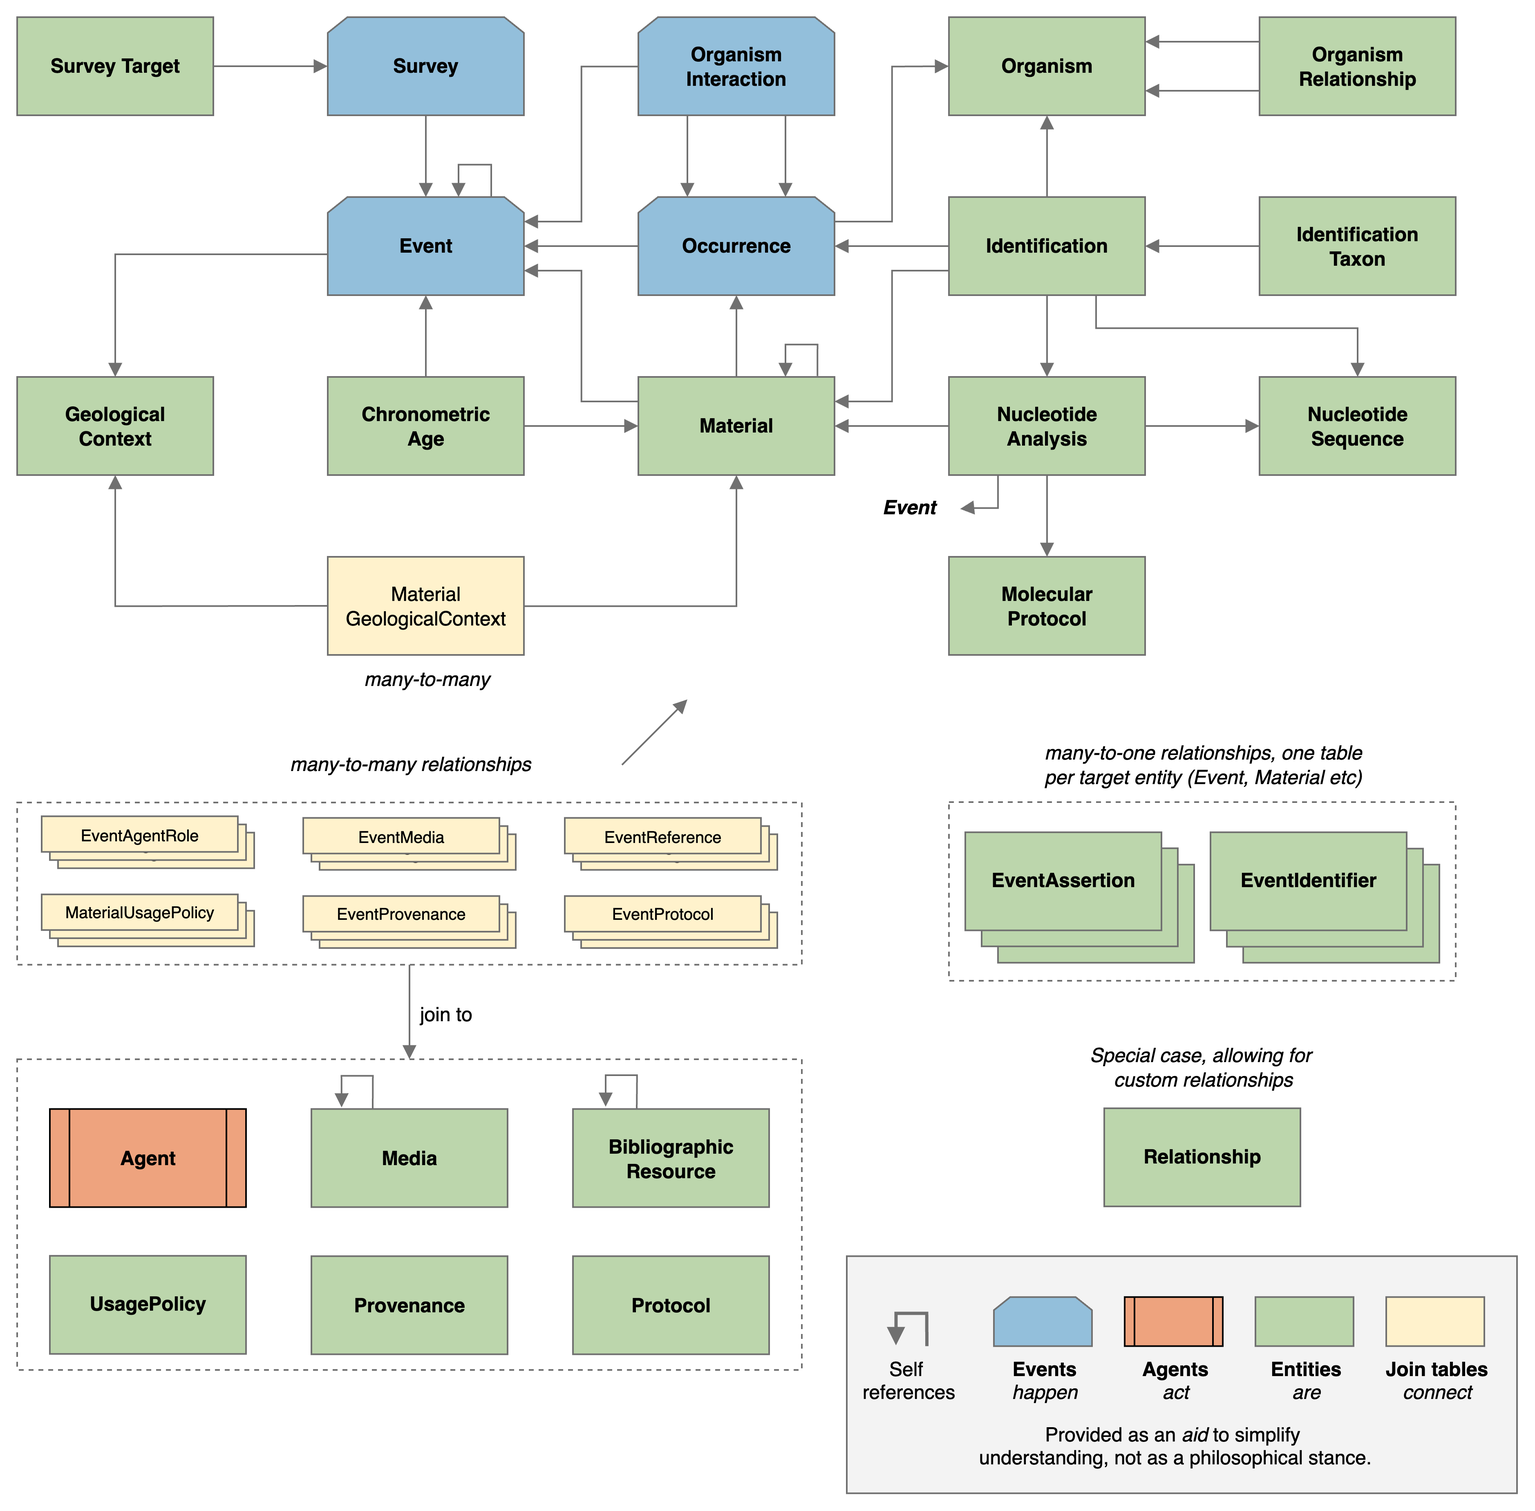
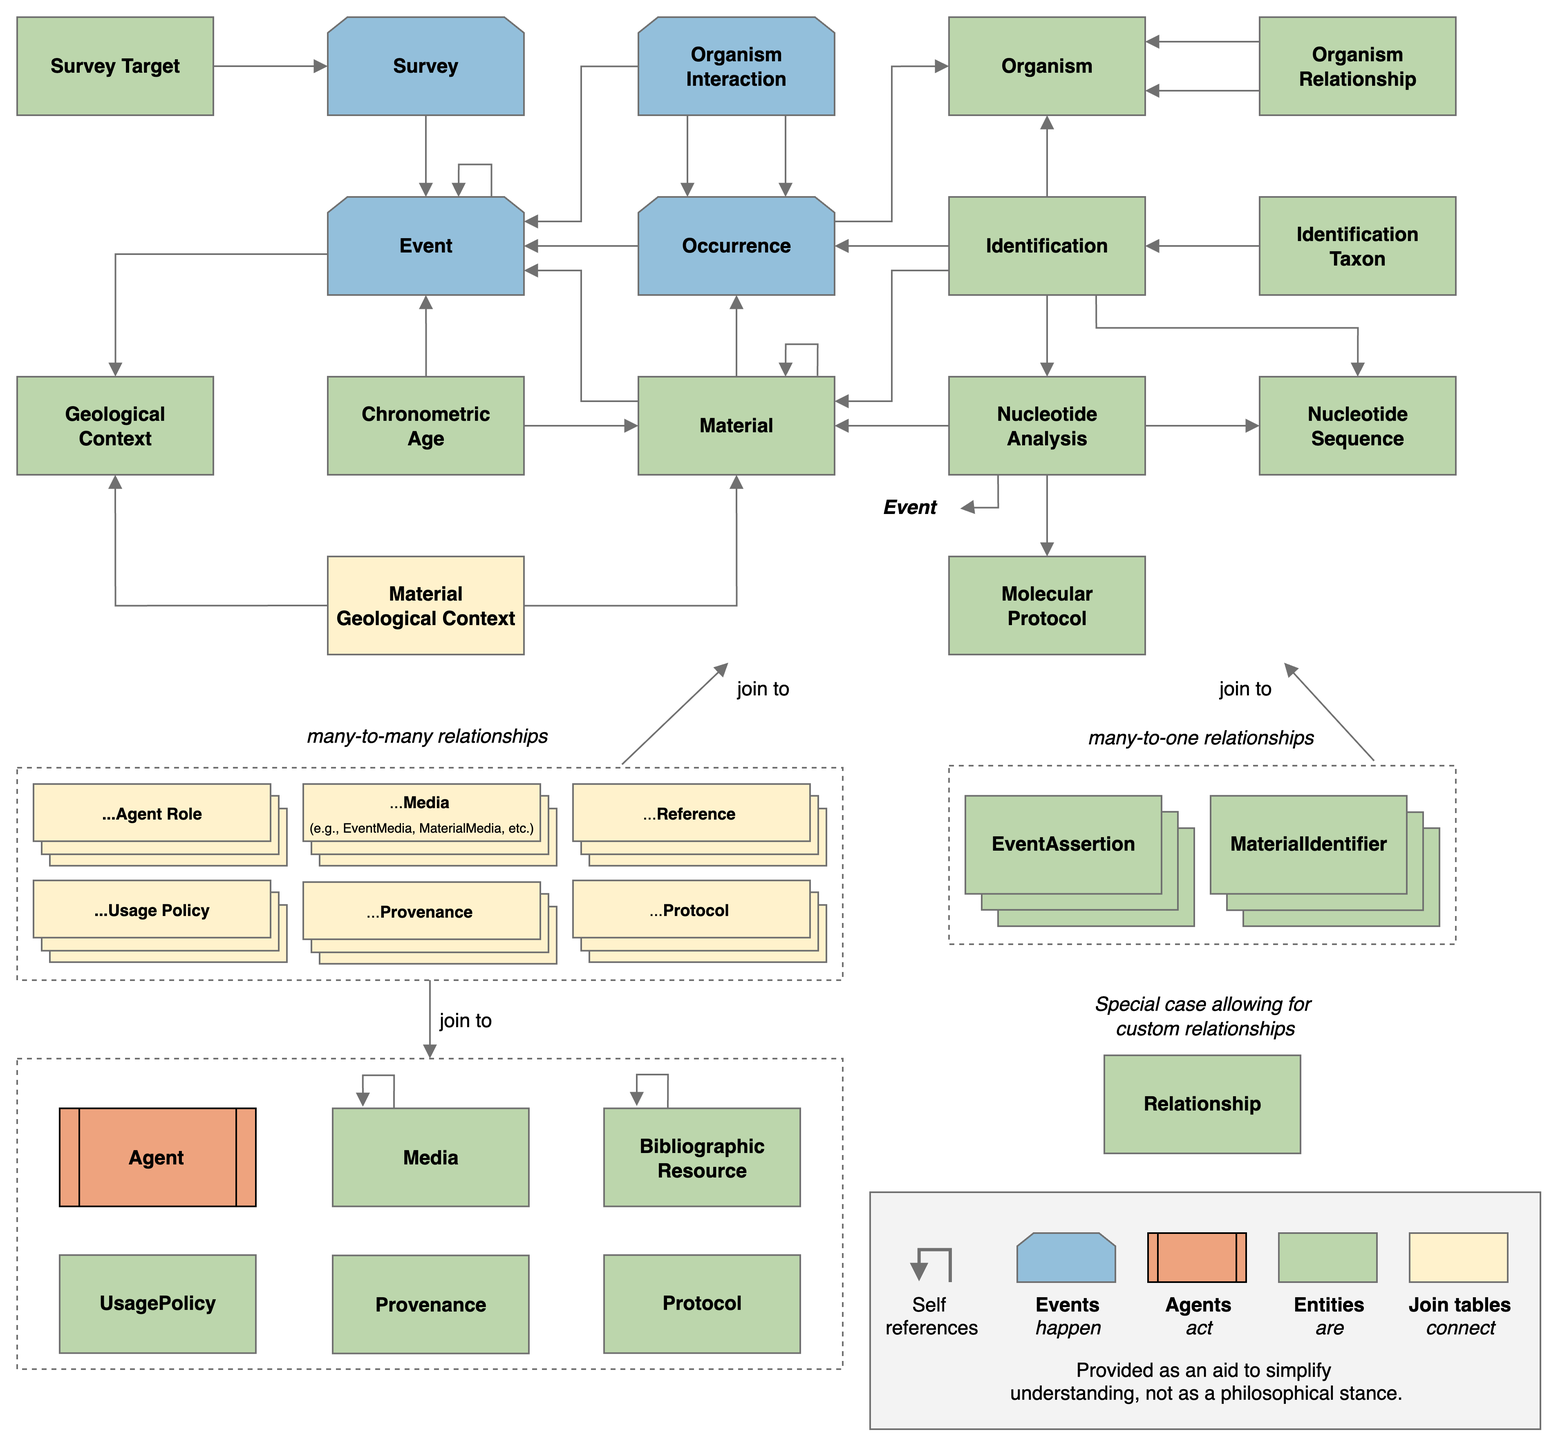
Further amendments to the QRG, especially images. Update to the review document, still a work in progress.

diff --git a/qrg/index.html b/qrg/index.html
@@ -23,7 +23,7 @@
         h2 { padding-bottom: 4px; margin: 12px 0 8px; }
         .intro { margin: 12px 0; font-size: 1.02em; color: #333; }
         .intro img { display: block; width: 100%; height: auto; border: 1px solid #ccc; box-sizing: border-box; }
-        .figure-caption { font-size: 0.88em; color: #555; text-align: center; margin-top: 4px; }
+        .figure-caption { font-size: 1.02em; color: #555; text-align: left; margin-top: 4px; }
         nav.class-index a.class-box {
             display: inline-block;
             margin: 2px;
@@ -3913,11 +3913,11 @@
 <table class="term-table"><tr><td class="label">Title (Label)</td><td>Relationship Remarks</td></tr><tr><td class="label">Namespace</td><td>dwc</td></tr><tr><td class="label">Table:</td><td><a href="#Resource Relationship">Resource Relationship</a></td></tr><tr><td class="label">IRI</td><td><a href="http://rs.tdwg.org/dwc/terms/relationshipRemarks">http://rs.tdwg.org/dwc/terms/relationshipRemarks</a></td></tr><tr><td class="label">Description</td><td>Comments or notes about a dwc:ResourceRelationship.</td></tr><tr><td class="label">Type</td><td>string</td></tr><tr><td class="label">Source</td><td><a href="http://rs.tdwg.org/dwc/terms/relationshipRemarks">http://rs.tdwg.org/dwc/terms/relationshipRemarks</a></td></tr></table>
 </section>
         <h1 id="model">Visual Summary</h1>
-        <p>The diagram below shows an overview of the DwC-DP tables (boxes) and the relationships between them (arrows). To avoid clutter, the diagram simplifies the representation of the model in a variety of ways. First, myriad join tables (e.g., EventMedia, MaterialMedia, OccurrenceMedia, etc.) are represented with stacks of boxes by category (e.g., under the box labeled EventMedia) rather than with separate boxes for each join table. The relationships to the tables on both sides of the join tables are represented by single arrows (e.g., to the Media table) rather than the myriad arrows that would otherwise be required. The directionality of the relationships are shown with arrows, but the fields that connect the tables (keys), the cardinality of those connections (uniqueness and whether they are required), and the nature of the relationships (predicates) are not shown. The keys, cardinality and predicates are all shown in the sections for each table titled "Relationships to Other Tables".</p>
+        <p>The diagram below shows an overview of the DwC-DP tables (boxes) and the relationships between them (arrows). To avoid clutter, the diagram simplifies the representation of the model in a variety of ways. First, myriad join tables (tables that connect two classes in many-to-many relationships, e.g., EventMedia, MaterialMedia, OccurrenceMedia, etc.) are represented with stacks of boxes by category (e.g., under the box labeled ...Media) rather than with separate boxes for each join table. The relationships to the tables connected through the join tables are represented by single arrows (e.g., to the Media table) and the label "join to" rather than the myriad arrows that would otherwise be required. 
+        Second, the directionality of the relationships are shown with arrows, but the fields that connect the tables (keys), the cardinality of those connections (uniqueness and whether they are required), and the nature of the relationships (predicates) are not shown. The keys, cardinality and predicates are all shown in the sections for each table titled "Relationships to Other Tables".</p>
         <div class="intro">
             <img src="../images/dwc-dp-schema-overview.png" alt="How tables relate to each other.">
-            <div class="figure-caption">Figure 1. Overview of the Darwin Core Data Package (DwC-DP), showing tables (classes) and their relationships to each other.</div>
-            <p>To further explore the relationships between tables, see the <a href="https://gbif.github.io/dwc-dp/explorer/">Darwin Core Data Package Relationship Explorer</a>.</p>
+            <div class="figure-caption">Figure 1. Overview of the Darwin Core Data Package (DwC-DP), showing tables (classes) and their relationships to each other. To further explore the relationships between tables, see the <a href="https://gbif.github.io/dwc-dp/explorer/">Darwin Core Data Package Relationship Explorer</a>.</div>
         </div>
         <footer>
             <p>This guide is provided to assist users to understand the structure and content of Darwin Core Data Packages.</p>

diff --git a/maintenance/generate_qrg.py b/maintenance/generate_qrg.py
@@ -422,7 +422,7 @@ TEMPLATE = '''<!DOCTYPE html>
         h2 {{ padding-bottom: 4px; margin: 12px 0 8px; }}
         .intro {{ margin: 12px 0; font-size: 1.02em; color: #333; }}
         .intro img {{ display: block; width: 100%; height: auto; border: 1px solid #ccc; box-sizing: border-box; }}
-        .figure-caption {{ font-size: 0.88em; color: #555; text-align: center; margin-top: 4px; }}
+        .figure-caption {{ font-size: 1.02em; color: #555; text-align: left; margin-top: 4px; }}
         nav.class-index a.class-box {{
             display: inline-block;
             margin: 2px;
@@ -501,11 +501,11 @@ TEMPLATE = '''<!DOCTYPE html>
         </div>
         {content}
         <h1 id="model">Visual Summary</h1>
-        <p>The diagram below shows an overview of the DwC-DP tables (boxes) and the relationships between them (arrows). To avoid clutter, the diagram simplifies the representation of the model in a variety of ways. First, myriad join tables (e.g., EventMedia, MaterialMedia, OccurrenceMedia, etc.) are represented with stacks of boxes by category (e.g., under the box labeled EventMedia) rather than with separate boxes for each join table. The relationships to the tables on both sides of the join tables are represented by single arrows (e.g., to the Media table) rather than the myriad arrows that would otherwise be required. The directionality of the relationships are shown with arrows, but the fields that connect the tables (keys), the cardinality of those connections (uniqueness and whether they are required), and the nature of the relationships (predicates) are not shown. The keys, cardinality and predicates are all shown in the sections for each table titled "Relationships to Other Tables".</p>
+        <p>The diagram below shows an overview of the DwC-DP tables (boxes) and the relationships between them (arrows). To avoid clutter, the diagram simplifies the representation of the model in a variety of ways. First, myriad join tables (tables that connect two classes in many-to-many relationships, e.g., EventMedia, MaterialMedia, OccurrenceMedia, etc.) are represented with stacks of boxes by category (e.g., under the box labeled ...Media) rather than with separate boxes for each join table. The relationships to the tables connected through the join tables are represented by single arrows (e.g., to the Media table) and the label "join to" rather than the myriad arrows that would otherwise be required. 
+        Second, the directionality of the relationships are shown with arrows, but the fields that connect the tables (keys), the cardinality of those connections (uniqueness and whether they are required), and the nature of the relationships (predicates) are not shown. The keys, cardinality and predicates are all shown in the sections for each table titled "Relationships to Other Tables".</p>
         <div class="intro">
             <img src="../images/dwc-dp-schema-overview.png" alt="How tables relate to each other.">
-            <div class="figure-caption">Figure 1. Overview of the Darwin Core Data Package (DwC-DP), showing tables (classes) and their relationships to each other.</div>
-            <p>To further explore the relationships between tables, see the <a href="https://gbif.github.io/dwc-dp/explorer/">Darwin Core Data Package Relationship Explorer</a>.</p>
+            <div class="figure-caption">Figure 1. Overview of the Darwin Core Data Package (DwC-DP), showing tables (classes) and their relationships to each other. To further explore the relationships between tables, see the <a href="https://gbif.github.io/dwc-dp/explorer/">Darwin Core Data Package Relationship Explorer</a>.</div>
         </div>
         <footer>
             <p>This guide is provided to assist users to understand the structure and content of Darwin Core Data Packages.</p>

diff --git a/home.md b/home.md
@@ -10,14 +10,14 @@ This document contains material to support a proposal for a [Vocabulary Enhancem
 
 The public review covers (see Figure 1):
   - a [Darwin Core Conceptual Model](#darwin-core-conceptual-model) (DwC-CM, a "semantic layer" for Darwin Core), 
-  - a Darwin Core Data Package Guide (a specification for Darwin Core Data Packages),
+  - a [Darwin Core Data Package Guide](https://github.com/gbif/dwc-dp/blob/master/darwin-core-data-package-guide.md) (a specification for Darwin Core Data Packages),
   - a set of proposals for new terms and changes to existing terms in Darwin Core to support an implementation of the Darwin Core Data Package specification - the [Darwin Core Data Package Publishing Model](#darwin-core-data-package-dwc-dp-publishing-model) (DwC-DP).
   - NOTE: The public review does NOT cover the Darwin Core Data Package Publishing Model itself.
 
 Information about efforts related to the development of the DwC-CM, the DwC-DP specification, and the DwC-DP Publishing Model can be found in the [Darwin Core Data Package (DwC-DP) Implementation Experience and Feature Report]().
 
 ![Here should be the image of Darwin Core Conceptual Model Review Schematic](images/dwc_review_schematic.png "Darwin Core Review")
-_Figure 1. Overview of the public review that includes the Darwin Core Conceptual Model (DwC-CM), the Darwin Core Data Package Guide, and proposals for new and changes Darwin Core terms.
+_Figure 1. Overview of the public review that includes the Darwin Core Conceptual Model (DwC-CM), the Darwin Core Data Package Guide, and proposals for new and changes Darwin Core terms._
 
 ## Darwin Core Conceptual Model
 
@@ -28,44 +28,13 @@ _Figure 2. Overview of the Darwin Core Conceptual Model showing key relationship
 
 ## Darwin Core Data Package Guide
 
-
-## Darwin Core Data Package (DwC-DP) Publishing Model
-
-### Purpose
-
-The DwC-DP Publishing Model supports sharing deeper and richer data than is possible with a [Darwin Core Archive](https://ipt.gbif.org/manual/en/ipt/latest/dwca-guide). 
-
-The Darwin Core Data Package (DwC-DP) is a data model implementation of the [Darwin Core Conceptual Model](#darwin-core-conceptual-model) to use for sharing biodiversity-related data, including data with structure beyond the restrictions of a [Darwin Core Archive](https://ipt.gbif.org/manual/en/ipt/latest/dwca-guide) star schema, for a wide variety of new and traditional biodiversity data sources. The model fully supports datasets traditionally published as [Darwin Core Archives](https://ipt.gbif.org/manual/en/ipt/latest/dwca-guide) (observations and physical specimens, with extensions), but it goes far beyond, allowing richer data to be shared from these traditional datasets than was hitherto supported. Also, it empowers those who desire to share entirely new types of data (biotic surveys with inferred absence and abundance, hierarchical material entities, organism interactions, phylogenetic trees, and nucleotide analyses, among others) via Darwin Core. 
-
-### Structure
-
-The higher-level structure of a Darwin Core Data Package is based on the [Darwin Core Archive](https://ipt.gbif.org/manual/en/ipt/latest/dwca-guide) - they both encapsulate datasets in text files (CSV, TSV) with dataset metadata in an Ecological Markup Language (EML) document that can be packaged and delivered in a compressed archive file. 
-
-![Here should be the image of the Darwin Core Archive structure](images/dwca.png "Darwin Core Archive Structure")
-_Figure 3. Schematic overview of the structure and content of a Darwin Core Archive. CSV files contain the primary data for a dataset, centered around a 'core' table, with optional 'extensions' connected directly to that core (the 'star schema'). The structure of these files and the relationships between them is captured on the meta.xml file. The eml.xml file contains the dataset metadata in Ecological Markup Language (EML). All of these are compressed in the Darwin Core Archive._
-
-![Here should be the image of the Darwin Core Data Package structure](images/dwcdp.png "Darwin Core Data Package Structure")
-_Figure 4. Schematic overview of the structure and content of a Darwin Core Data Package corresponding to the same theoretical dataset as for the Darwin Core Archive in Figure 2. In place of the meta.xml file to describe a core and extensions, the datapackage.json file describes the CSV files, the relationships between them, the fields included in each CSV file, their definitions, constraints, etc. With the exception that the structure is not limited by the 'star schema' and the structure being described in the datapackage.json file, everything else about the Darwin Core Archives and Darwin Core Data Packages is the same._
-
-The biggest difference between a Darwin Core Archive and a Darwin Core Data Package is in the extent to which the data within distinct classes can be stored and shared in distinct text files, and how these files relate to each other. The list of fields and all of their details (including names, labels, definitions, usage comments, examples, and constraints) are defined in the JSON [table schema](https://github.com/gbif/dwc-dp/tree/master/dwc-dp/0.1/table-schemas) files. The details of the relationships between files are also in the table schemas, expressed as primary keys (unique identifiers within a table) and foreign keys (fields that contain the identifiers equal to the value of a primary key in another file).
-
-The beauty of DwC-DP is that it is complicated only for those who want or need it to be, because there is no other way to faithfully capture the complexity of their data. Just as with Darwin Core Archives, a [test version](https://dwcdp-ipt.gbif-test.org/) of the GBIF Integrated Publishing Toolkit (IPT) in development can facilitate data structure mapping and produce Darwin Core Data Packages. If you would like to test structuring your data as a Darwin Core Data Package with this test IPT (not for production use), please contact the DwC-DP helpdesk at <dwcdp@gbif.org>.
-
-### Example Datasets
-
-There is a separate GitHub repository ([gbif/dwc-dp-examples](https://github.com/gbif/dwc-dp-examples)) in which we have been accumulating examples of real datasets mapped to DwC-DP. That repository contains a representation of the DwC-DP as a [database schema](https://github.com/gbif/dwc-dp-examples/blob/master/gbif/dwc_dp_schema.sql) that can be populated with data mapped to DwC-DP and checked for data integrity.
-
-## Implications for Darwin Core
-
-Including the Darwin Core Data Package as a vocabulary enhancement to the Darwin Core standard implies several changes in the standard, including adding terms, modifying existing terms, and providing new documentation accordingly. Two new normative documents will be needed. The first will be a document describing in detail the Darwin Core Semantic Layer, including the [Darwin Core Conceptual Model](#darwin-core-conceptual-model), of which the DwC-DP is an implementation. The second document will be a "Darwin Core Data Package Guide". Much like the [Darwin Core Text Guide](https://dwc.tdwg.org/text/), this second document will describe the requirements for the structure of Darwin Core as a Data Package.
+The Darwin Core Data Package Guide is a specification of the requirements for a data package to be a Darwin Core Data Package. It is similar in purpose to the [Darwin Core Text Guide](https://dwc.tdwg.org/text/). Both describe specifications for data publishing models. The Darwin Core Data Package Guide is to a Darwin Core Data Package as the Darwin Core Text Guide is to a Darwin Core Archive.
 
 ### New Classes and Properties
 
-To enable the Darwin Core Data Package, new terms will have to be added. These include new classes and new properties in those classes. New classes are described below. To explore all classes and their properties in detail, see the [Darwin Core Data Package - Quick Reference Guide](/dwc-dp/qrg/).
+To enable the Darwin Core Data Package as a new publishing model, new terms will have to be added to Darwin Core. These include new classes and new properties in those classes. New classes are described below. To explore all classes and their properties in detail, see the [Darwin Core Data Package - Quick Reference Guide](/dwc-dp/qrg/).
 
 **Agent** - A person, group, organization or other entity that can act.
-
-**IdentificationTaxon** - A construct of components and positions of `dwc:scientificNames` in a `dwc:Identification`.
 
 **Media** - A `dcmi:MediaType` (`dcmi:Sounds`, `dcmi:StillImages`, `dcmi:MovingImages` or `dcmi:Text`) with other entities as content. This class accommodates metadata about media from the [Audiovisual Core](https://ac.tdwg.org/) standard.
 
@@ -77,17 +46,17 @@ To enable the Darwin Core Data Package, new terms will have to be added. These i
 
 **OrganismInteraction** - An interaction between two `dwc:Organisms` during a `dwc:Event`.
 
-**PhylogeneticTree** - A branching diagram that shows the evolutionary relationships between `dwc:Organisms`.
-
-**PhylogeneticTreeTip** - A group of Taxa at the end of a branch of a PhylogeneticTree as determined from relationships between `dwc:Organisms`.
-
 **Protocol** - A method used during an action.
 
-**Reference** - A bibliographic reference in which an entity is mentioned.
+**Provenance** - Information about an entity’s origins.
 
-**Survey** - A biotic survey. This class accommodates the [Humboldt Extension for Ecological Inventories](https://eco.tdwg.org/).
+**BibliographicResource** - A book, article, or other documentary resource.
+
+**Survey** - A biotic survey or inventory. This class accommodates the [Humboldt Extension for Ecological Inventories](https://eco.tdwg.org/).
 
 **SurveyTarget** - A specification of a characteristic of a `dwc:Occurrence` that was included or excluded in a Survey. This class accommodates and extended the Scope aspects of the [Humboldt Extension for Ecological Inventories](https://eco.tdwg.org/).
+
+**UsagePolicy** - Information about rights, usage, and attribution statements applicable to an entity.
 
 ### Changes to Existing Classes and Properties
 
@@ -99,16 +68,8 @@ One of the most fundamental advances of the Semantic Layer, reflected in the DwC
 
 ## Participating and Getting Help
 
-In anticipation of a formal public review, scheduled to begin 2025-09-01, we would like to invite people to gain familiarity with and test the DwC-DP by attempting to map original datasets to it. We are just beginning to work on the "Darwin Core Data Package Guide", which is intended to contain various "recipes" for publishing different types of datasets. Until that document contains useful content, the best way forward is to look at an already-mapped example dataset that is similar to the one you want to test ([gbif/dwc-dp-examples](https://github.com/gbif/dwc-dp-examples)). This community testing phase will remain open until 2025-08-01.
-
 - **Getting started** - In addition to this document, the easiest way to start to understand DwC-DP is to look at the [Darwin Core Data Package - Quick Reference Guide](/dwc-dp/qrg/index.html).
 
-- **Mapping datasets to DwC-DP** - If you need help getting started with mapping a dataset to DwC-DP, see the [Data Mapping Guide](/dwc-dp/data-mapping-guide/). For feedback about the Guide or any of the [DwC-DP Examples](https://github.com/gbif/dwc-dp-examples/), feel free to register an [Issue](https://github.com/gbif/dwc-dp-examples/issues).
-
-- **Testing with IPT** - If you are interested in using the [test instance](https://dwcdp-ipt.gbif-test.org/) of the Integrated Publishing Toolkit (not for production use) to produce a Darwin Core Data Package, please contact the DwC-DP helpdesk to set up an account. 
-
 - **Submitting Issues** - For feedback about the structure or documentation of DwC-DP, feel free to register an [Issue](https://github.com/gbif/dwc-dp/issues).
-
-- **Discussion** - For open discussion on the Darwin Core Data Package, see the GBIF [Darwin Core Data Package (DwC-DP) discourse forum topic](https://discourse.gbif.org/t/darwin-core-data-package-dwc-dp/5937).
 
 - **Help!** - For help with any issue, feel free to contact the DwC-DP helpdesk <dwcdp@gbif.org>.
